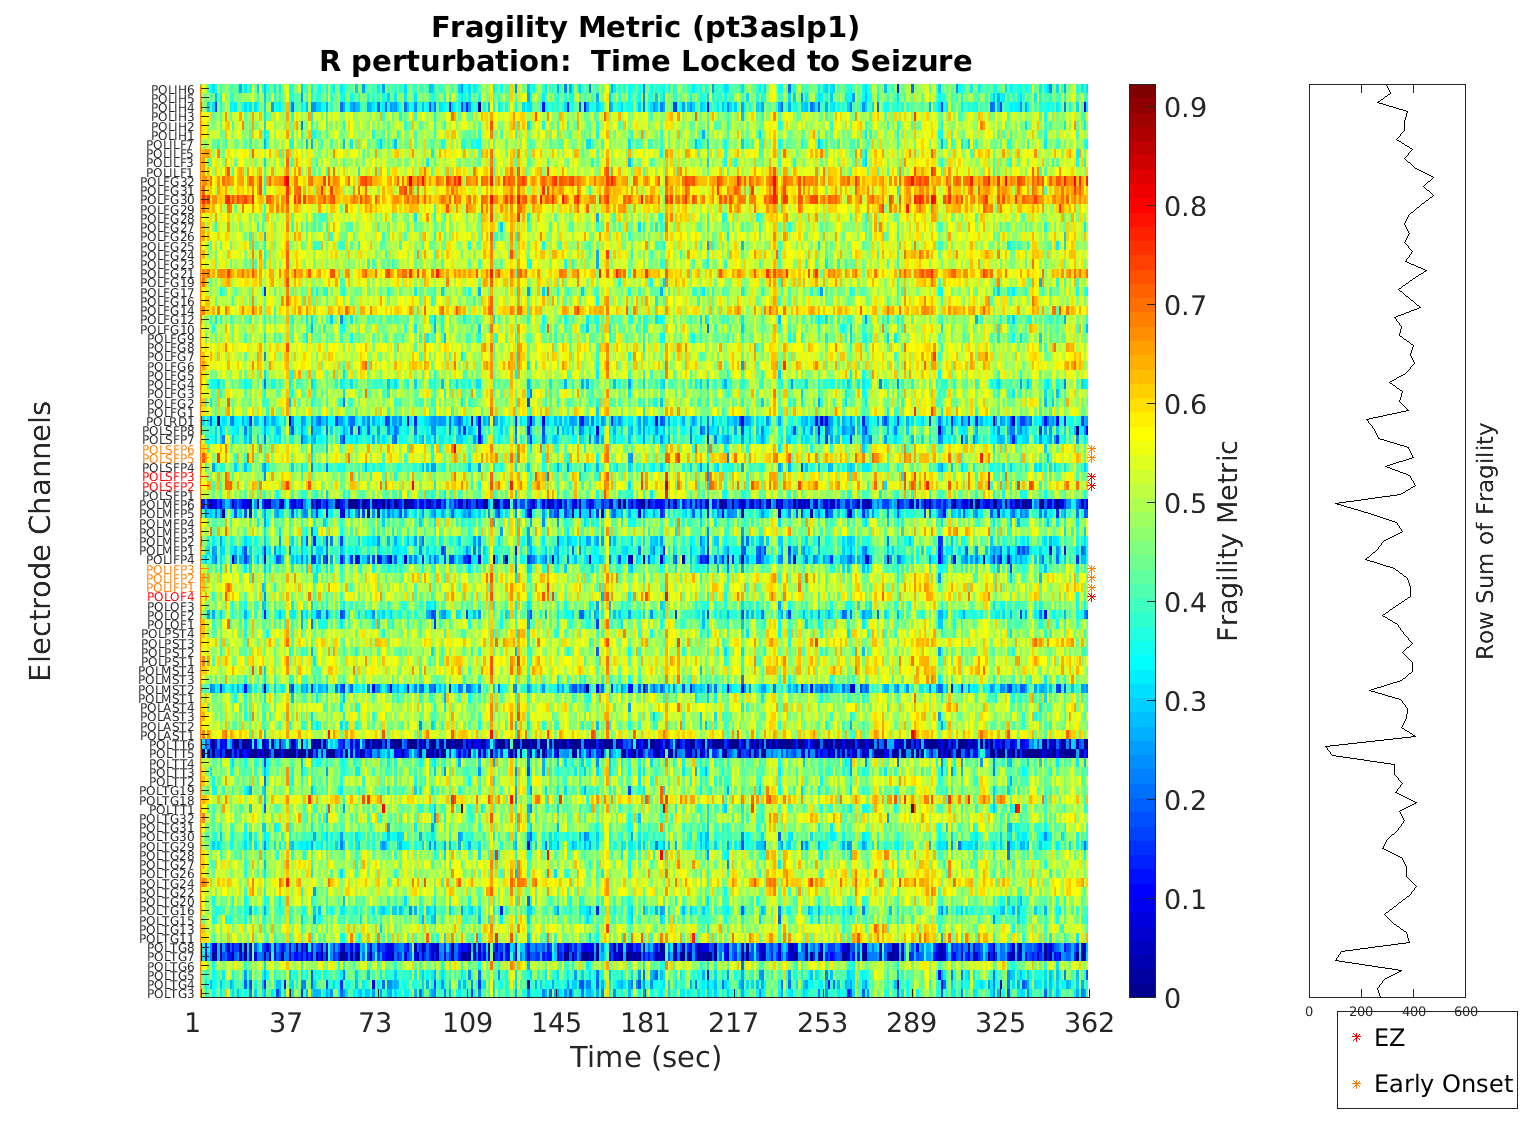
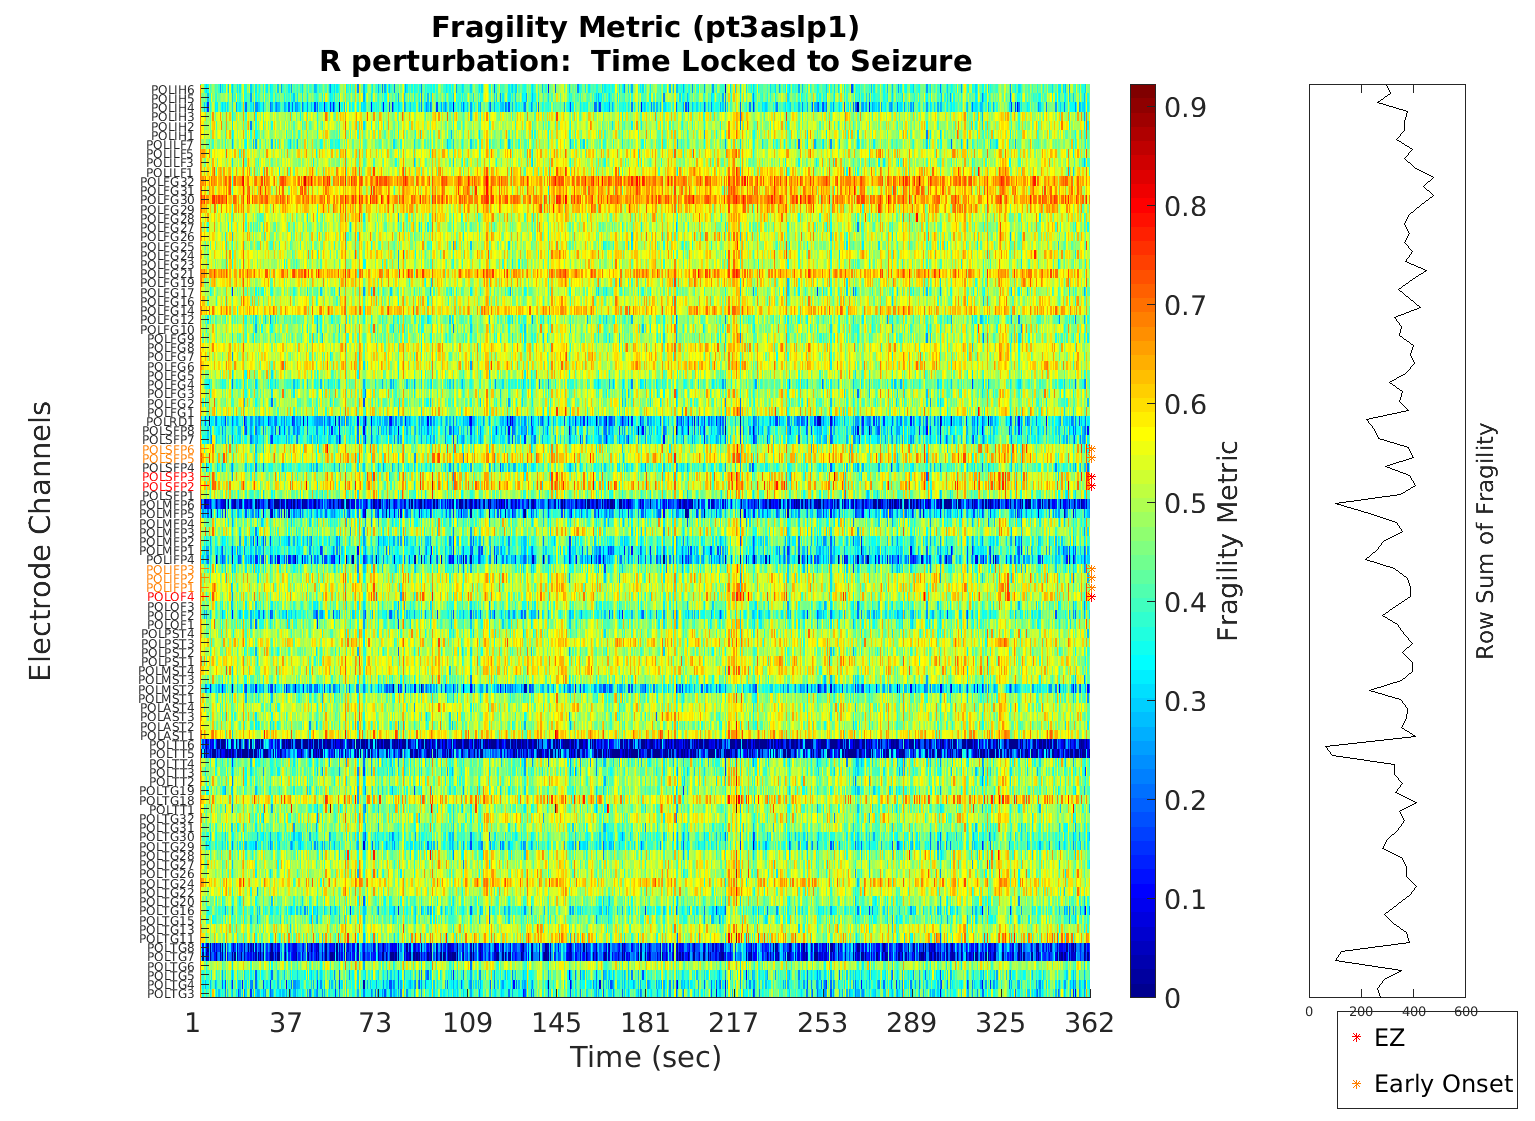
Adding figures drawn for all data and not all data.

diff --git a/fragility_dataanalysis/runPlotsAndDOA.m b/fragility_dataanalysis/runPlotsAndDOA.m
@@ -1,17 +1,17 @@
 % function runPlotsAndDOA(frequency_sampling, winSize, stepSize, radius)
 % settings to run
 patients = {,...,
-     'pt1aw1', 'pt1aw2', ...
-    'pt1aslp1', 'pt1aslp2', ...
-    'pt2aw1', 'pt2aw2', ...
-    'pt2aslp1', ...
-    'pt2aslp2', ...
-    'pt3aw1', ...
-    'pt3aslp1', 'pt3aslp2', ...
-%     'pt1sz2', 'pt1sz3', 'pt1sz4',...
-%     'pt2sz1' 'pt2sz3' 'pt2sz4', ...
-%     'pt3sz2' 'pt3sz4', ...
-%       'pt6sz3', 'pt6sz4', 'pt6sz5','JH108sz1', 'JH108sz2', 'JH108sz3', 'JH108sz4', 'JH108sz5', 'JH108sz6', 'JH108sz7',...
+%      'pt1aw1', 'pt1aw2', ...
+%     'pt1aslp1', 'pt1aslp2', ...
+%     'pt2aw1', 'pt2aw2', ...
+%     'pt2aslp1', ...
+%     'pt2aslp2', ...
+%     'pt3aw1', ...
+%     'pt3aslp1', 'pt3aslp2', ...
+    'pt1sz2', 'pt1sz3', 'pt1sz4',...
+    'pt2sz1' 'pt2sz3' 'pt2sz4', ...
+    'pt3sz2' 'pt3sz4', ...
+%     'pt6sz3', 'pt6sz4', 'pt6sz5',...
 %     'pt8sz1' 'pt8sz2' 'pt8sz3',...
 %     'pt10sz1' 'pt10sz2' 'pt10sz3', ...
 %     'pt11sz1' 'pt11sz2' 'pt11sz3' 'pt11sz4', ...
@@ -132,7 +132,7 @@ for p=1:length(patients)
         FONTSIZE = 20;
         PLOTARGS = struct();
         PLOTARGS.SAVEFIG = 1;
-        PLOTARGS.toSaveFigFile = fullfile(toSaveFigDir, strcat(patient, '_minPerturbation'));
+        PLOTARGS.toSaveFigFile = fullfile(toSaveFigDir, strcat(patient, '_minPerturbation_alldata'));
         PLOTARGS.YAXFontSize = 9;
         PLOTARGS.FONTSIZE = FONTSIZE;
         PLOTARGS.xlabelStr = 'Time (sec)';
@@ -142,15 +142,31 @@ for p=1:length(patients)
         PLOTARGS.titleStr = {['Minimum Norm Perturbation (', patient, ')'], ...
             [perturbationType, ' perturbation: ', ' Time Locked to Seizure']};
         seizureStart = info.seizure_start;
+        seizureEnd = info.seizure_end;
         if seizureStart == size(eeg,2)
             timeStart = 1;
             timeEnd = timePoints(size(minPerturb_time_chan,2),1) / frequency_sampling;
+        else
+            % find index of seizureStart
+            timeIndex = find(seizureStart<timePoints(:,2),1) - 1;
+            timeStart = timeIndex - 60 - timeIndex; 
+            timeEnd = timeIndex - timeIndex;
+            
+            seizureIndex = timeIndex;
+            seizureEndIndex = find(seizureEnd < timePoints(:,2),1) + 1;
+            seizureTime = timePoints(find(seizureStart<timePoints(:,2),1) - 1) / frequency_sampling;
+            timeStart = 1;
+            timeEnd = timePoints(size(minPerturb_time_chan,2),1) / frequency_sampling;
+            PLOTARGS.seizureIndex = seizureIndex;
+            PLOTARGS.seizureEnd = seizureEndIndex;
+%             minPerturb_time_chan = minPerturb_time_chan(:, timeIndex-60:timeIndex);
+%             fragility_rankings = fragility_rankings(:, timeIndex-60:timeIndex);
         end
         
         %% 2. Plot Min 2-Induced Norm Perturbation and Fragility Ranking
         plotMinimumPerturbation(minPerturb_time_chan, clinicalIndices, timeStart, timeEnd, PLOTARGS);
         
-        PLOTARGS.toSaveFigFile = fullfile(toSaveFigDir, strcat(patient, '_fragilityMetric'));
+        PLOTARGS.toSaveFigFile = fullfile(toSaveFigDir, strcat(patient, '_fragilityMetric_alldata'));
         PLOTARGS.colorbarStr = 'Fragility Metric';
         PLOTARGS.titleStr = {['Fragility Metric (', patient, ')'], ...
             [perturbationType, ' perturbation: ', ' Time Locked to Seizure']};

diff --git a/fragility_dataanalysis/fragility_library/plotting_library/plotFragilityMetric.m b/fragility_dataanalysis/fragility_library/plotting_library/plotFragilityMetric.m
@@ -17,6 +17,12 @@ function plotFragilityMetric(fragility_mat, clinicalIndices,...
     SAVEFIG = PLOTARGS.SAVEFIG;
     toSaveFigFile = PLOTARGS.toSaveFigFile;
     YAXFontSize = 9;
+    if isfield(PLOTARGS, 'seizureIndex')
+        seizureIndex = PLOTARGS.seizureIndex;
+    end
+    if isfield(PLOTARGS, 'seizureEnd')
+        seizureEnd = PLOTARGS.seizureEnd;
+    end
     
     %- create rowsum of fragility_mat
     rowsum = sum(fragility_mat, 2);
@@ -27,7 +33,7 @@ function plotFragilityMetric(fragility_mat, clinicalIndices,...
     firstplot = 1:24;
     firstplot([6,12,18,24]) = []; hold on;
     firstfig = subplot(4,6, firstplot);
-    imagesc(fragility_mat(:, timeStart:timeEnd)); hold on; axis tight;
+    imagesc(fragility_mat); hold on; axis tight;
     axes = gca; currfig = gcf;
     cbar = colorbar(); colormap('jet'); set(axes, 'box', 'off'); set(axes, 'YDir', 'normal');
     labelColorbar(cbar, colorbarStr, FONTSIZE);
@@ -58,6 +64,13 @@ function plotFragilityMetric(fragility_mat, clinicalIndices,...
         end
     end
 
+    if exist('seizureIndex', 'var') 
+        plot([seizureIndex seizureIndex], get(gca, 'YLim'), 'Color', 'black', 'LineWidth', 2);
+    end
+    if exist('seizureEnd', 'var')
+        plot([seizureEnd seizureEnd], get(gca, 'YLim'), 'Color', 'black', 'LineWidth', 2);
+    end
+    
     currfig.PaperPosition = [-3.7448   -0.3385   15.9896   11.6771];
     currfig.Position = [1986           1        1535        1121];
     ylab.Position = ylab.Position + [-.15 0 0]; % move ylabel to the left

diff --git a/fragility_dataanalysis/fragility_library/plotting_library/plotMinimumPerturbation.m b/fragility_dataanalysis/fragility_library/plotting_library/plotMinimumPerturbation.m
@@ -17,10 +17,16 @@ function plotMinimumPerturbation(minPerturb_time_chan, clinicalIndices,...
     SAVEFIG = PLOTARGS.SAVEFIG;
     toSaveFigFile = PLOTARGS.toSaveFigFile;
     YAXFontSize = 9;
+    if isfield(PLOTARGS, 'seizureIndex')
+        seizureIndex = PLOTARGS.seizureIndex;
+    end
+    if isfield(PLOTARGS, 'seizureEnd')
+        seizureEnd = PLOTARGS.seizureEnd;
+    end
     
     %% Step 1: Plot Heatmap
     fig = figure;
-    imagesc(minPerturb_time_chan(:, timeStart:timeEnd)); hold on;
+    imagesc(minPerturb_time_chan); hold on;
     axes = gca; currfig = gcf;
     cbar = colorbar(); colormap('jet'); set(axes, 'box', 'off'); set(axes, 'YDir', 'normal');
     labelColorbar(cbar, colorbarStr, FONTSIZE);
@@ -49,6 +55,13 @@ function plotMinimumPerturbation(minPerturb_time_chan, clinicalIndices,...
             xLocations = repmat(XUpperLim+1, length(figIndices{i}), 1);
             plotAnnotatedStars(fig, xLocations, figIndices{i}, colors{i});
         end
+    end
+    
+    if exist('seizureIndex', 'var') 
+        plot([seizureIndex seizureIndex], get(gca, 'YLim'), 'Color', 'black', 'LineWidth', 2);
+    end
+    if exist('seizureEnd', 'var')
+        plot([seizureEnd seizureEnd], get(gca, 'YLim'), 'Color', 'black', 'LineWidth', 2);
     end
 
     currfig.PaperPosition = [-3.7448   -0.3385   15.9896   11.6771];
